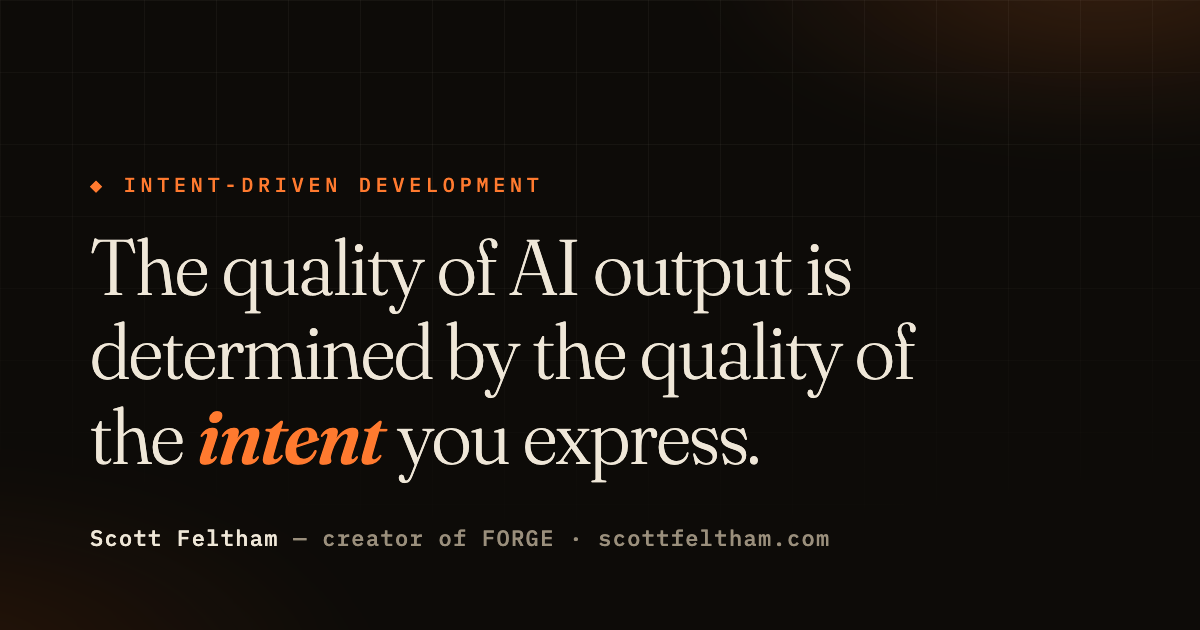
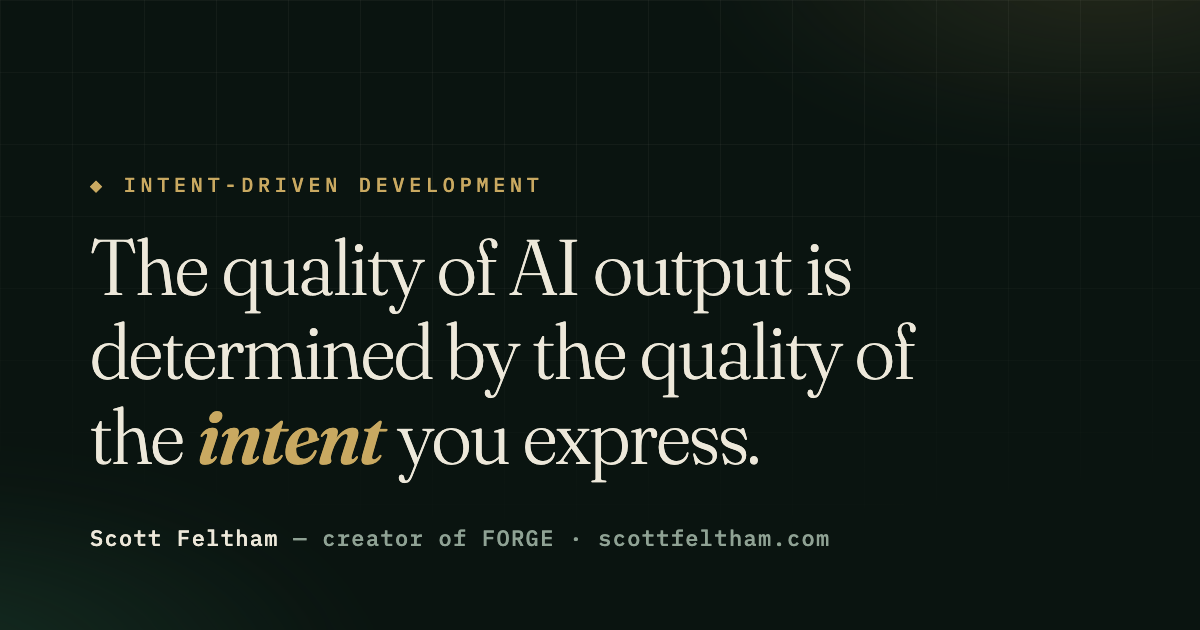
Promote Verdigris direction: pine/brass palette, quiet nav, single-signature motion; regen OG card

Changed region(s): [[0.1542, 0.6333, 0.3392, 0.754], [0.0617, 0.2714, 0.4625, 0.3016]]

diff --git a/index.html b/index.html
@@ -103,10 +103,10 @@
   <style>
     :root{
       /* palette parked for revisit — swap this block only */
-      --void:#0D0B08; --coal:#14110C; --panel:#191510; --shell:rgba(239,231,216,.045);
-      --ivory:#EFE7D8; --dim:#9A8F7C; --faint:#5C5344;
-      --line:rgba(239,231,216,.11); --line-strong:rgba(239,231,216,.26);
-      --ember:#FF7A2F; --ember-deep:#C7500F; --ember-soft:rgba(255,122,47,.13);
+      --void:#0A1410; --coal:#0F1A14; --panel:#122019; --shell:rgba(237,232,218,.04);
+      --ivory:#EDE8DA; --dim:#8FA294; --faint:#54665B;
+      --line:rgba(237,232,218,.11); --line-strong:rgba(237,232,218,.26);
+      --ember:#FF7A2F; --ember-deep:#C7500F; --ember-soft:rgba(201,169,97,.13);
       --mono:'IBM Plex Mono',ui-monospace,monospace;
       --display:'Fraunces',Georgia,serif;
       --body:'Newsreader',Georgia,serif;
@@ -126,9 +126,9 @@
     .atmo .aurora{
       position:absolute;inset:-30%;
       background:
-        radial-gradient(38% 30% at 78% 12%, rgba(255,122,47,.13), transparent 60%),
-        radial-gradient(42% 36% at 12% 78%, rgba(199,80,15,.10), transparent 60%),
-        radial-gradient(30% 26% at 45% 42%, rgba(239,231,216,.045), transparent 60%);
+        radial-gradient(38% 30% at 78% 12%, rgba(201,169,97,.13), transparent 60%),
+        radial-gradient(42% 36% at 12% 78%, rgba(38,84,62,.10), transparent 60%),
+        radial-gradient(30% 26% at 45% 42%, rgba(237,232,218,.045), transparent 60%);
       filter:blur(40px); will-change:transform;
       animation:drift 26s ease-in-out infinite alternate;
     }
@@ -153,16 +153,10 @@
 
     /* ---------- floating island nav ---------- */
     .navisland{
-      position:fixed;top:18px;left:50%;transform:translateX(-50%);z-index:40;
-      display:flex;align-items:center;gap:26px;
-      padding:10px 12px 10px 22px;border-radius:999px;
-      background:rgba(20,17,12,.55);backdrop-filter:blur(18px);-webkit-backdrop-filter:blur(18px);
-      border:1px solid var(--line);
-      box-shadow:0 12px 40px rgba(0,0,0,.45), inset 0 1px 0 rgba(239,231,216,.07);
-      transition:box-shadow .5s var(--ease), border-color .5s var(--ease);
-      max-width:calc(100vw - 32px);
+      position:absolute;top:0;left:0;right:0;z-index:40;
+      display:flex;align-items:baseline;justify-content:space-between;gap:26px;
+      padding:26px clamp(20px,4vw,48px);
     }
-    .navisland:hover{border-color:var(--line-strong)}
     .brand{font-family:var(--mono);font-weight:600;font-size:.74rem;letter-spacing:.24em;text-transform:uppercase;text-decoration:none;white-space:nowrap}
     .brand em{font-style:normal;color:var(--ember)}
     nav.toc{display:flex;gap:20px}
@@ -180,8 +174,8 @@
     .eyebrow{
       display:inline-flex;align-items:center;gap:8px;width:max-content;
       font-family:var(--mono);font-size:.62rem;letter-spacing:.22em;text-transform:uppercase;color:var(--ember);
-      border:1px solid rgba(255,122,47,.3);border-radius:999px;padding:6px 14px;margin-bottom:3.2rem;
-      background:rgba(255,122,47,.05);
+      border:1px solid rgba(201,169,97,.3);border-radius:999px;padding:6px 14px;margin-bottom:3.2rem;
+      background:rgba(201,169,97,.05);
     }
     .eyebrow::before{content:"";width:5px;height:5px;border-radius:50%;background:var(--ember);box-shadow:0 0 10px var(--ember)}
     .hero h1{
@@ -189,10 +183,10 @@
       line-height:1.05;letter-spacing:-.015em;max-width:19ch;text-wrap:balance;
     }
     .hero h1 .gl{white-space:pre}
-    .hero h1 em{font-style:italic;font-weight:600;color:var(--ember);text-shadow:0 0 34px rgba(255,122,47,.35)}
+    .hero h1 em{font-style:italic;font-weight:600;color:var(--ember);text-shadow:0 0 34px rgba(201,169,97,.35)}
     .hero .attrib{margin-top:3.2rem;display:flex;gap:16px;align-items:baseline;flex-wrap:wrap;font-family:var(--mono);font-size:.79rem;color:var(--dim)}
     .hero .attrib b{color:var(--ivory);font-weight:600}
-    .hero .rulewrap{display:inline-block;width:52px;height:1px;background:var(--ember);box-shadow:0 0 12px rgba(255,122,47,.8);vertical-align:middle}
+    .hero .rulewrap{display:inline-block;width:52px;height:1px;background:var(--ember);box-shadow:0 0 12px rgba(201,169,97,.8);vertical-align:middle}
     .scrollcue{
       position:absolute;left:50%;bottom:26px;transform:translateX(-50%);
       font-family:var(--mono);font-size:.62rem;letter-spacing:.3em;text-transform:uppercase;color:var(--faint);
@@ -203,9 +197,9 @@
     @media (prefers-reduced-motion:reduce){.scrollcue::after{animation:none}}
 
     /* ---------- stat band ---------- */
-    .stats{border-top:1px solid var(--line-strong);border-bottom:1px solid var(--line-strong);background:linear-gradient(180deg,rgba(255,122,47,.04),transparent 65%);position:relative}
+    .stats{border-top:1px solid var(--line-strong);border-bottom:1px solid var(--line-strong);background:linear-gradient(180deg,rgba(201,169,97,.04),transparent 65%);position:relative}
     .stats .railwrap{position:absolute;top:-1px;left:0;right:0;height:1px;overflow:hidden}
-    .stats .rail{height:1px;background:var(--ember);box-shadow:0 0 14px rgba(255,122,47,.8);transform:scaleX(0);transform-origin:left}
+    .stats .rail{height:1px;background:var(--ember);box-shadow:0 0 14px rgba(201,169,97,.8);transform:scaleX(0);transform-origin:left}
     .stats .wrap{display:grid;grid-template-columns:repeat(auto-fit,minmax(165px,1fr))}
     .stat{padding:34px 20px 30px;border-left:1px solid var(--line);position:relative;overflow:hidden}
     .stat:first-child{border-left:none}
@@ -235,7 +229,7 @@
     .ledger{
       border-radius:15px;border:1px solid var(--line);
       background:linear-gradient(160deg,var(--panel),var(--coal));
-      box-shadow:0 24px 60px rgba(0,0,0,.5), inset 0 1px 1px rgba(239,231,216,.08);
+      box-shadow:0 24px 60px rgba(0,0,0,.5), inset 0 1px 1px rgba(237,232,218,.08);
       overflow:hidden;
     }
     .ledger h3{font-family:var(--mono);font-size:.68rem;letter-spacing:.2em;text-transform:uppercase;padding:15px 20px;border-bottom:1px solid var(--line-strong);display:flex;justify-content:space-between;color:var(--dim)}
@@ -260,7 +254,7 @@
     #forge{border-bottom:1px solid var(--line)}
     .forge-stage{position:relative}
     .forge-rail{height:2px;background:var(--line);margin:3.2rem 0 0;position:relative;border-radius:2px;overflow:hidden}
-    .forge-rail i{position:absolute;inset:0;background:linear-gradient(90deg,var(--ember-deep),var(--ember));box-shadow:0 0 16px rgba(255,122,47,.7);transform:scaleX(0);transform-origin:left}
+    .forge-rail i{position:absolute;inset:0;background:linear-gradient(90deg,var(--ember-deep),var(--ember));box-shadow:0 0 16px rgba(201,169,97,.7);transform:scaleX(0);transform-origin:left}
     .phases-shell{background:var(--shell);border:1px solid var(--line);border-radius:22px;padding:7px;margin-top:1.1rem}
     .phases{display:grid;grid-template-columns:repeat(5,1fr);border-radius:15px;overflow:hidden;background:var(--coal);border:1px solid var(--line)}
     @media(max-width:900px){.phases{grid-template-columns:1fr}}
@@ -270,7 +264,7 @@
     .phase::after{content:"";position:absolute;inset:0;background:var(--ember-soft);opacity:0;transition:opacity .5s var(--ease);pointer-events:none}
     .phase.lit::after{opacity:1}
     .phase b{font-family:var(--display);font-size:2.8rem;font-weight:600;color:var(--faint);display:block;line-height:1;transition:color .5s var(--ease),text-shadow .5s var(--ease)}
-    .phase.lit b{color:var(--ember);text-shadow:0 0 26px rgba(255,122,47,.45)}
+    .phase.lit b{color:var(--ember);text-shadow:0 0 26px rgba(201,169,97,.45)}
     .phase h4{font-family:var(--mono);font-size:.68rem;letter-spacing:.18em;text-transform:uppercase;margin:.7rem 0 .55rem;color:var(--ivory)}
     .phase p{font-size:.9rem;line-height:1.55;color:var(--dim)}
     .pillars{display:grid;grid-template-columns:repeat(3,1fr);gap:38px;margin-top:4rem}
@@ -286,7 +280,7 @@
     /* ---------- record ---------- */
     .recordwrap{position:relative;padding-left:34px}
     .recordwrap .spine{position:absolute;left:0;top:0;bottom:0;width:2px;background:var(--line)}
-    .recordwrap .spine i{position:absolute;inset:0;background:linear-gradient(var(--ember),var(--ember-deep));box-shadow:0 0 12px rgba(255,122,47,.6);transform:scaleY(0);transform-origin:top;display:block}
+    .recordwrap .spine i{position:absolute;inset:0;background:linear-gradient(var(--ember),var(--ember-deep));box-shadow:0 0 12px rgba(201,169,97,.6);transform:scaleY(0);transform-origin:top;display:block}
     .record{list-style:none}
     .record li{display:grid;grid-template-columns:135px minmax(0,1fr);gap:28px;padding:24px 0;border-top:1px solid var(--line)}
     .record li:first-child{border-top:none}
@@ -307,7 +301,7 @@
 
     /* ---------- contact ---------- */
     .contact h2{font-family:var(--display);font-weight:300;font-size:clamp(2rem,5vw,3.7rem);letter-spacing:-.015em;max-width:22ch;text-wrap:balance}
-    .contact h2 em{font-style:italic;font-weight:600;color:var(--ember);text-shadow:0 0 30px rgba(255,122,47,.3)}
+    .contact h2 em{font-style:italic;font-weight:600;color:var(--ember);text-shadow:0 0 30px rgba(201,169,97,.3)}
     .cta-row{display:flex;gap:14px;flex-wrap:wrap;margin-top:2.8rem}
     .btn{
       display:inline-flex;align-items:center;gap:12px;
@@ -320,7 +314,7 @@
     .btn .orb{
       width:34px;height:34px;border-radius:50%;flex:none;
       display:inline-flex;align-items:center;justify-content:center;
-      background:rgba(239,231,216,.08);color:var(--ivory);font-size:.9rem;
+      background:rgba(237,232,218,.08);color:var(--ivory);font-size:.9rem;
       transition:transform .5s var(--ease),background .5s var(--ease),color .5s var(--ease);
     }
     .btn:hover{border-color:var(--ember)}
@@ -555,40 +549,6 @@
       var reduced = matchMedia('(prefers-reduced-motion: reduce)').matches;
       var hasGsap = typeof gsap !== 'undefined' && typeof ScrollTrigger !== 'undefined';
 
-      /* ---- signature: axiom resolves from glyph noise ---- */
-      var h = document.getElementById('axiom');
-      if(h && !reduced){
-        var final = h.getAttribute('data-final');
-        var GLYPHS = '¬~#%?*≠{}/\\|<>+=';
-        var emStart = final.indexOf('intent'), emEnd = emStart + 'intent'.length;
-        var start = null, DURATION = 1500, SETTLE = 800;
-        function render(progress){
-          var out = '', resolved = Math.floor(final.length * progress);
-          for(var i=0;i<final.length;i++){
-            var ch = final[i], body;
-            if(i < resolved || ch === ' ') body = ch;
-            else body = GLYPHS[(i*7 + Math.floor(progress*120)) % GLYPHS.length];
-            var esc = body === '<' ? '&lt;' : body === '>' ? '&gt;' : body === '&' ? '&amp;' : body;
-            if(i === emStart) out += '<em>';
-            out += (i >= resolved && ch !== ' ') ? '<span class="gl" style="opacity:.42">'+esc+'</span>' : esc;
-            if(i === emEnd-1) out += '</em>';
-          }
-          h.innerHTML = out;
-        }
-        (function tickWrap(){
-          function tick(ts){
-            if(start === null) start = ts;
-            var t = ts - start;
-            if(t < SETTLE){ render(0); requestAnimationFrame(tick); return; }
-            var p = Math.min(1,(t-SETTLE)/DURATION), eased = 1-Math.pow(1-p,3);
-            render(eased);
-            if(p < 1) requestAnimationFrame(tick);
-            else h.innerHTML = final.slice(0,emStart) + '<em>intent</em>' + final.slice(emEnd);
-          }
-          requestAnimationFrame(tick);
-        })();
-      }
-
       /* ---- stat count-up ---- */
       function countUp(el){
         var to = parseFloat(el.getAttribute('data-to')), dec = parseInt(el.getAttribute('data-dec')||'0',10);
@@ -625,7 +585,7 @@
             tc.fillText('INTENT', W/2, H/2 + 10);
             var data = tc.getImageData(0,0,W,H).data;
             ctx.clearRect(0,0,W,H);
-            ctx.fillStyle = 'rgba(255,122,47,.9)';
+            ctx.fillStyle = 'rgba(201,169,97,.9)';
             for(var y=0;y<H;y+=5) for(var x=0;x<W;x+=5)
               if(data[(y*W+x)*4+3] > 128) ctx.fillRect(x,y,2.5,2.5);
           }
@@ -643,7 +603,7 @@
       gsap.timeline({defaults:{ease:EASE}})
         .to('.eyebrow', {y:0, opacity:1, duration:1}, .1)
         .to('#axiom', {y:0, opacity:1, duration:1.2}, .25)
-        .to('.hero .attrib', {y:0, opacity:1, duration:1}, 2.1);
+        .to('.hero .attrib', {y:0, opacity:1, duration:1}, .55);
 
       /* ---- hero parallax + scrub-away ---- */
       gsap.to('[data-hero-inner]', {
@@ -744,7 +704,7 @@
             var x = pt.x0 + (pt.tx - pt.x0)*e + Math.sin(pt.ph + p*9 + i)*wob;
             var y = pt.y0 + (pt.ty - pt.y0)*e + Math.cos(pt.ph + p*7 + i)*wob;
             var a = .22 + e*.78;
-            ctx.fillStyle = 'rgba(255,122,47,'+a.toFixed(2)+')';
+            ctx.fillStyle = 'rgba(201,169,97,'+a.toFixed(2)+')';
             ctx.fillRect(x, y, 2.5, 2.5);
           }
         }
@@ -773,33 +733,6 @@
         scaleY:1, ease:'none',
         scrollTrigger:{trigger:'.recordwrap', start:'top 75%', end:'bottom 60%', scrub:.5}
       });
-
-      /* ---- ledger tilt (pointer:fine only) ---- */
-      if(matchMedia('(pointer:fine)').matches){
-        var tilt = document.querySelector('[data-tilt]');
-        if(tilt){
-          var rx = gsap.quickTo(tilt, 'rotationX', {duration:.6, ease:'power3.out'});
-          var ry = gsap.quickTo(tilt, 'rotationY', {duration:.6, ease:'power3.out'});
-          gsap.set(tilt, {transformPerspective:900});
-          tilt.addEventListener('pointermove', function(e){
-            var r = tilt.getBoundingClientRect();
-            ry(((e.clientX - r.left)/r.width - .5) * 7);
-            rx(-((e.clientY - r.top)/r.height - .5) * 7);
-          });
-          tilt.addEventListener('pointerleave', function(){ rx(0); ry(0); });
-        }
-        /* magnetic buttons */
-        document.querySelectorAll('[data-magnet]').forEach(function(btn){
-          var bx = gsap.quickTo(btn, 'x', {duration:.5, ease:'power3.out'});
-          var by = gsap.quickTo(btn, 'y', {duration:.5, ease:'power3.out'});
-          btn.addEventListener('pointermove', function(e){
-            var r = btn.getBoundingClientRect();
-            bx((e.clientX - (r.left + r.width/2)) * .18);
-            by((e.clientY - (r.top + r.height/2)) * .3);
-          });
-          btn.addEventListener('pointerleave', function(){ bx(0); by(0); });
-        });
-      }
 
       /* fonts settle → recalc pin positions */
       if(document.fonts && document.fonts.ready) document.fonts.ready.then(function(){ ScrollTrigger.refresh(); });

diff --git a/labs/og-source.html b/labs/og-source.html
@@ -3,20 +3,20 @@
 <link href="https://fonts.googleapis.com/css2?family=Fraunces:ital,opsz,wght@0,9..144,300;0,9..144,600;1,9..144,600&family=IBM+Plex+Mono:wght@500&display=swap" rel="stylesheet">
 <style>
   body{margin:0}
-  .card{width:1200px;height:630px;background:#0D0B08;position:relative;overflow:hidden;font-family:'Fraunces',Georgia,serif}
+  .card{width:1200px;height:630px;background:#0A1410;position:relative;overflow:hidden;font-family:'Fraunces',Georgia,serif}
   .card::before{content:"";position:absolute;inset:-20%;background:
-    radial-gradient(40% 34% at 80% 10%, rgba(255,122,47,.18), transparent 60%),
-    radial-gradient(44% 38% at 10% 90%, rgba(199,80,15,.14), transparent 60%);filter:blur(30px)}
+    radial-gradient(40% 34% at 80% 10%, rgba(201,169,97,.14), transparent 60%),
+    radial-gradient(44% 38% at 10% 90%, rgba(38,84,62,.4), transparent 60%);filter:blur(30px)}
   .card::after{content:"";position:absolute;inset:0;opacity:.5;background-image:
-    linear-gradient(rgba(239,231,216,.09) 1px,transparent 1px),
-    linear-gradient(90deg,rgba(239,231,216,.09) 1px,transparent 1px);background-size:72px 72px;
+    linear-gradient(rgba(237,232,218,.09) 1px,transparent 1px),
+    linear-gradient(90deg,rgba(237,232,218,.09) 1px,transparent 1px);background-size:72px 72px;
     -webkit-mask-image:radial-gradient(120% 100% at 50% 0%, #000 30%, transparent 90%)}
   .in{position:absolute;inset:0;z-index:2;display:flex;flex-direction:column;justify-content:center;padding:0 90px}
-  .kick{font-family:'IBM Plex Mono',monospace;font-size:20px;letter-spacing:.24em;text-transform:uppercase;color:#FF7A2F;margin-bottom:28px}
-  h1{margin:0;font-weight:300;font-size:78px;line-height:1.08;letter-spacing:-.015em;color:#EFE7D8;max-width:19ch}
-  h1 em{font-style:italic;font-weight:600;color:#FF7A2F}
-  .foot{position:absolute;left:90px;bottom:56px;font-family:'IBM Plex Mono',monospace;font-size:22px;letter-spacing:.06em;color:#9A8F7C}
-  .foot b{color:#EFE7D8;font-weight:500}
+  .kick{font-family:'IBM Plex Mono',monospace;font-size:20px;letter-spacing:.24em;text-transform:uppercase;color:#C9A961;margin-bottom:28px}
+  h1{margin:0;font-weight:300;font-size:78px;line-height:1.08;letter-spacing:-.015em;color:#EDE8DA;max-width:19ch}
+  h1 em{font-style:italic;font-weight:600;color:#C9A961}
+  .foot{position:absolute;left:90px;bottom:56px;font-family:'IBM Plex Mono',monospace;font-size:22px;letter-spacing:.06em;color:#8FA294}
+  .foot b{color:#EDE8DA;font-weight:500}
 </style></head>
 <body>
   <div class="card">
